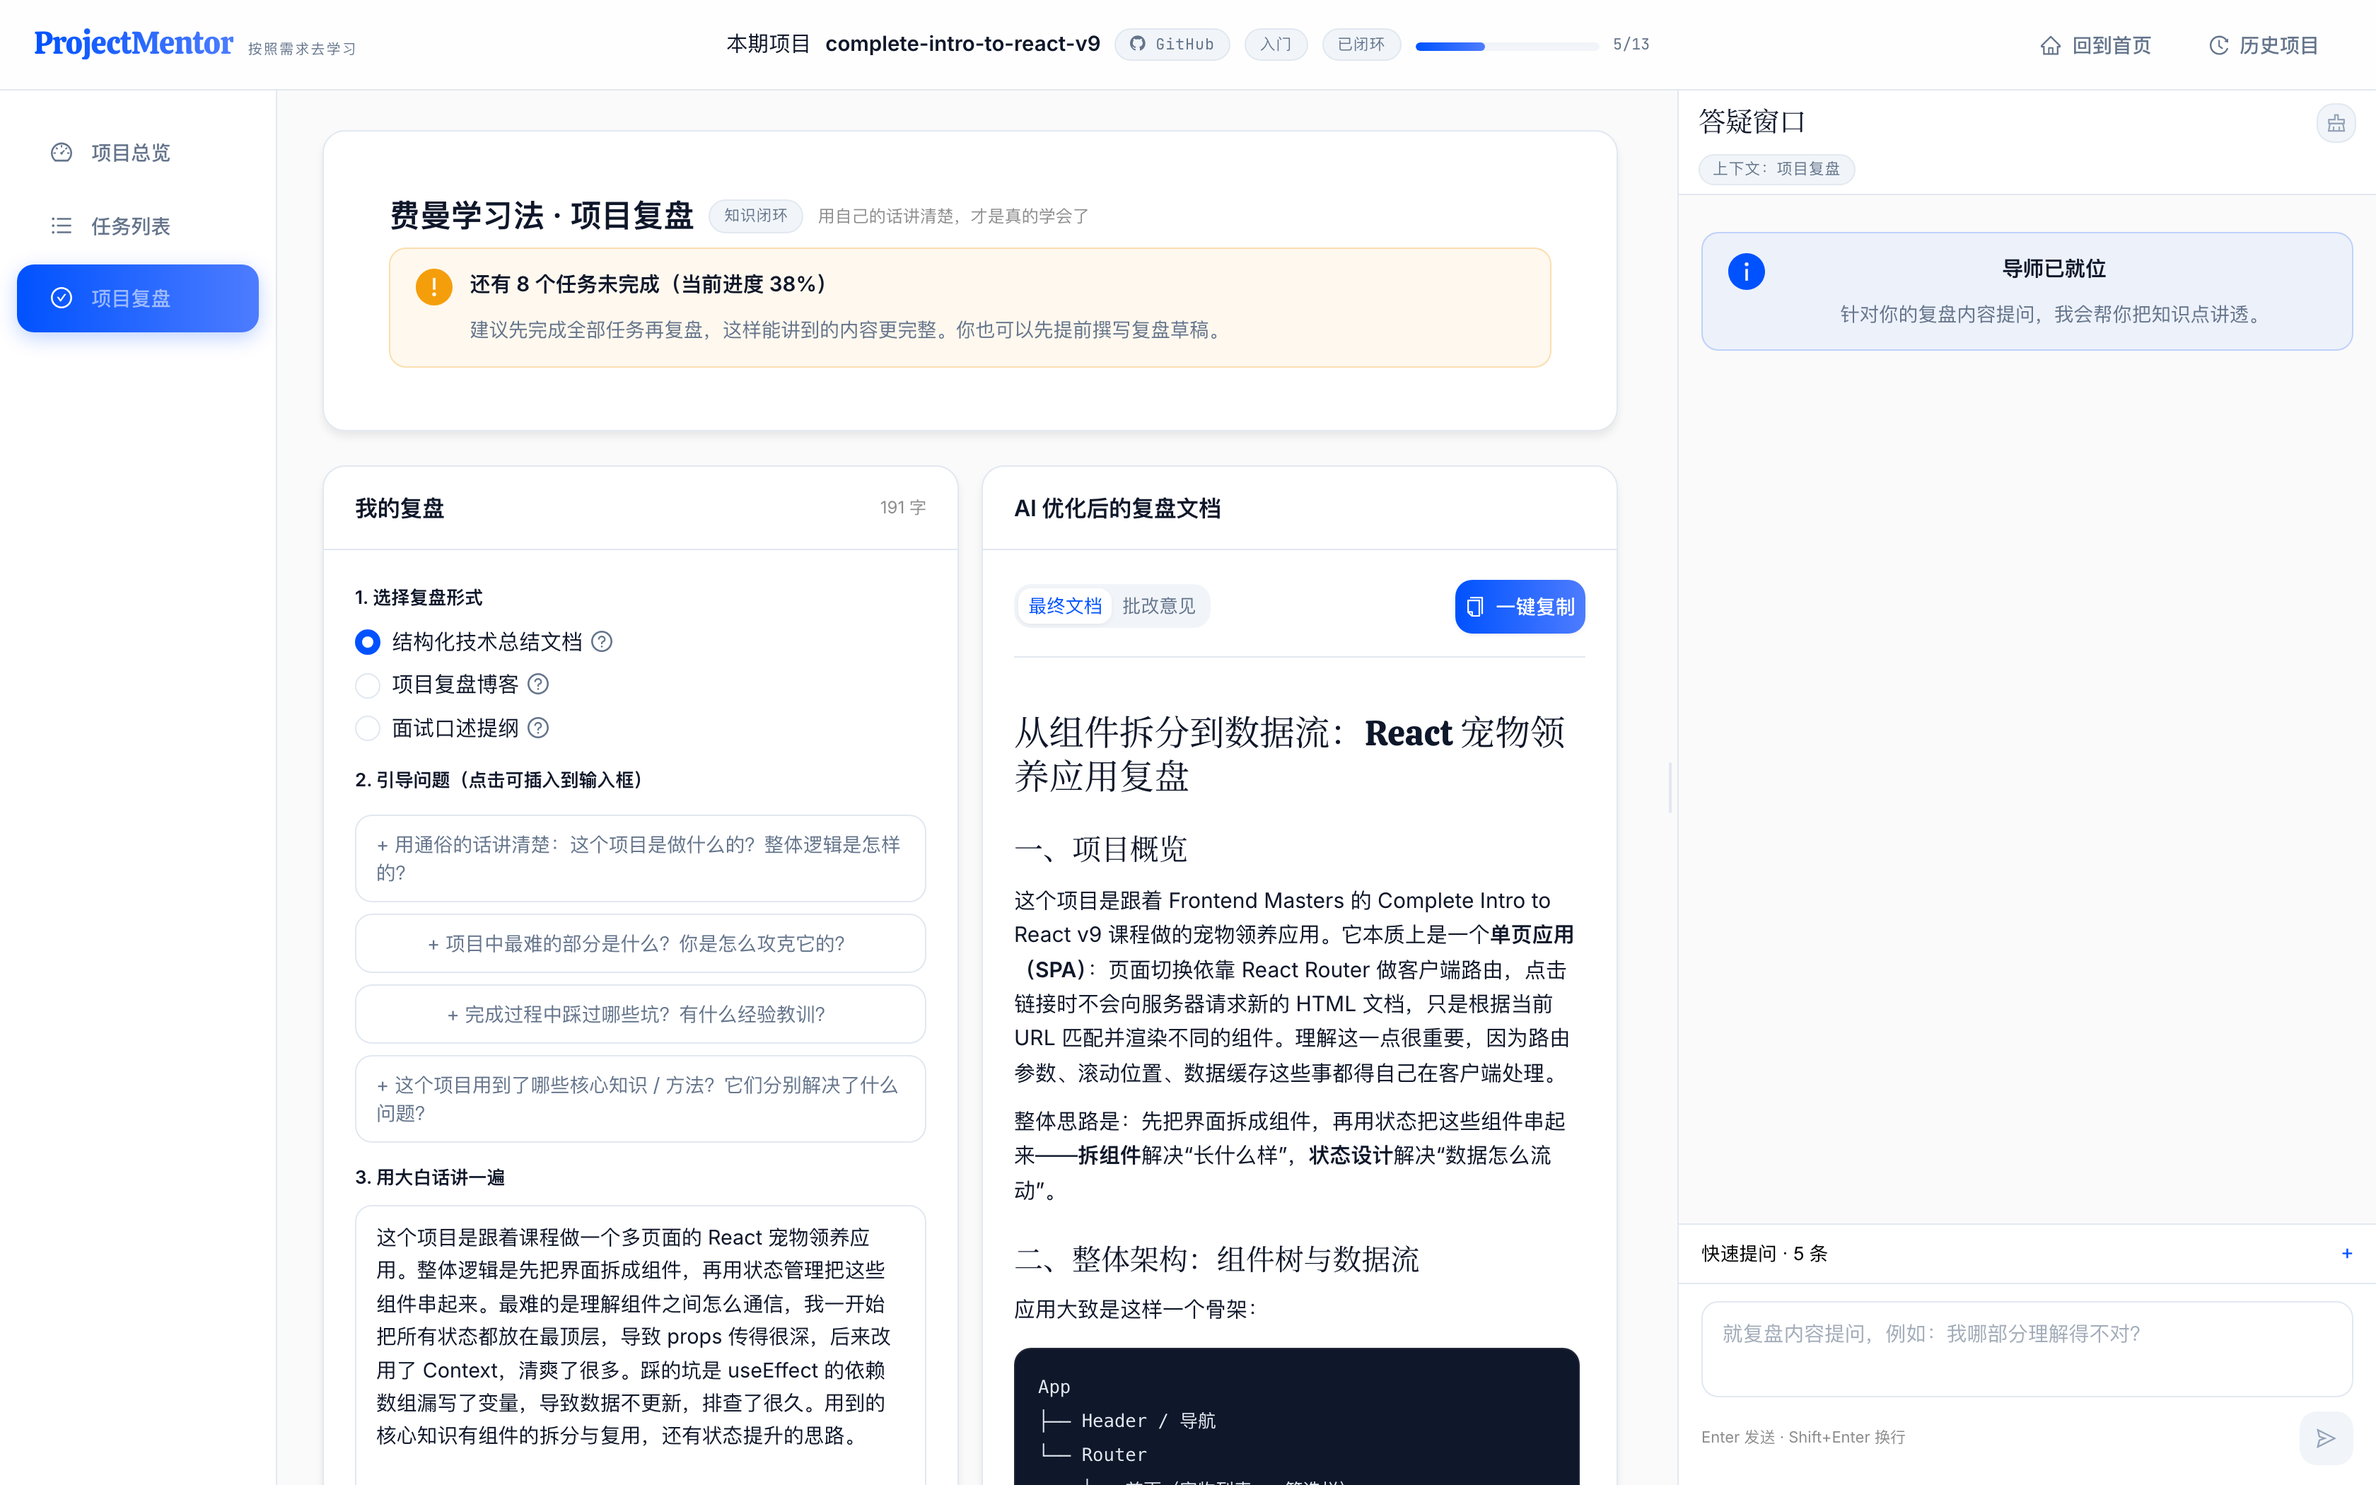
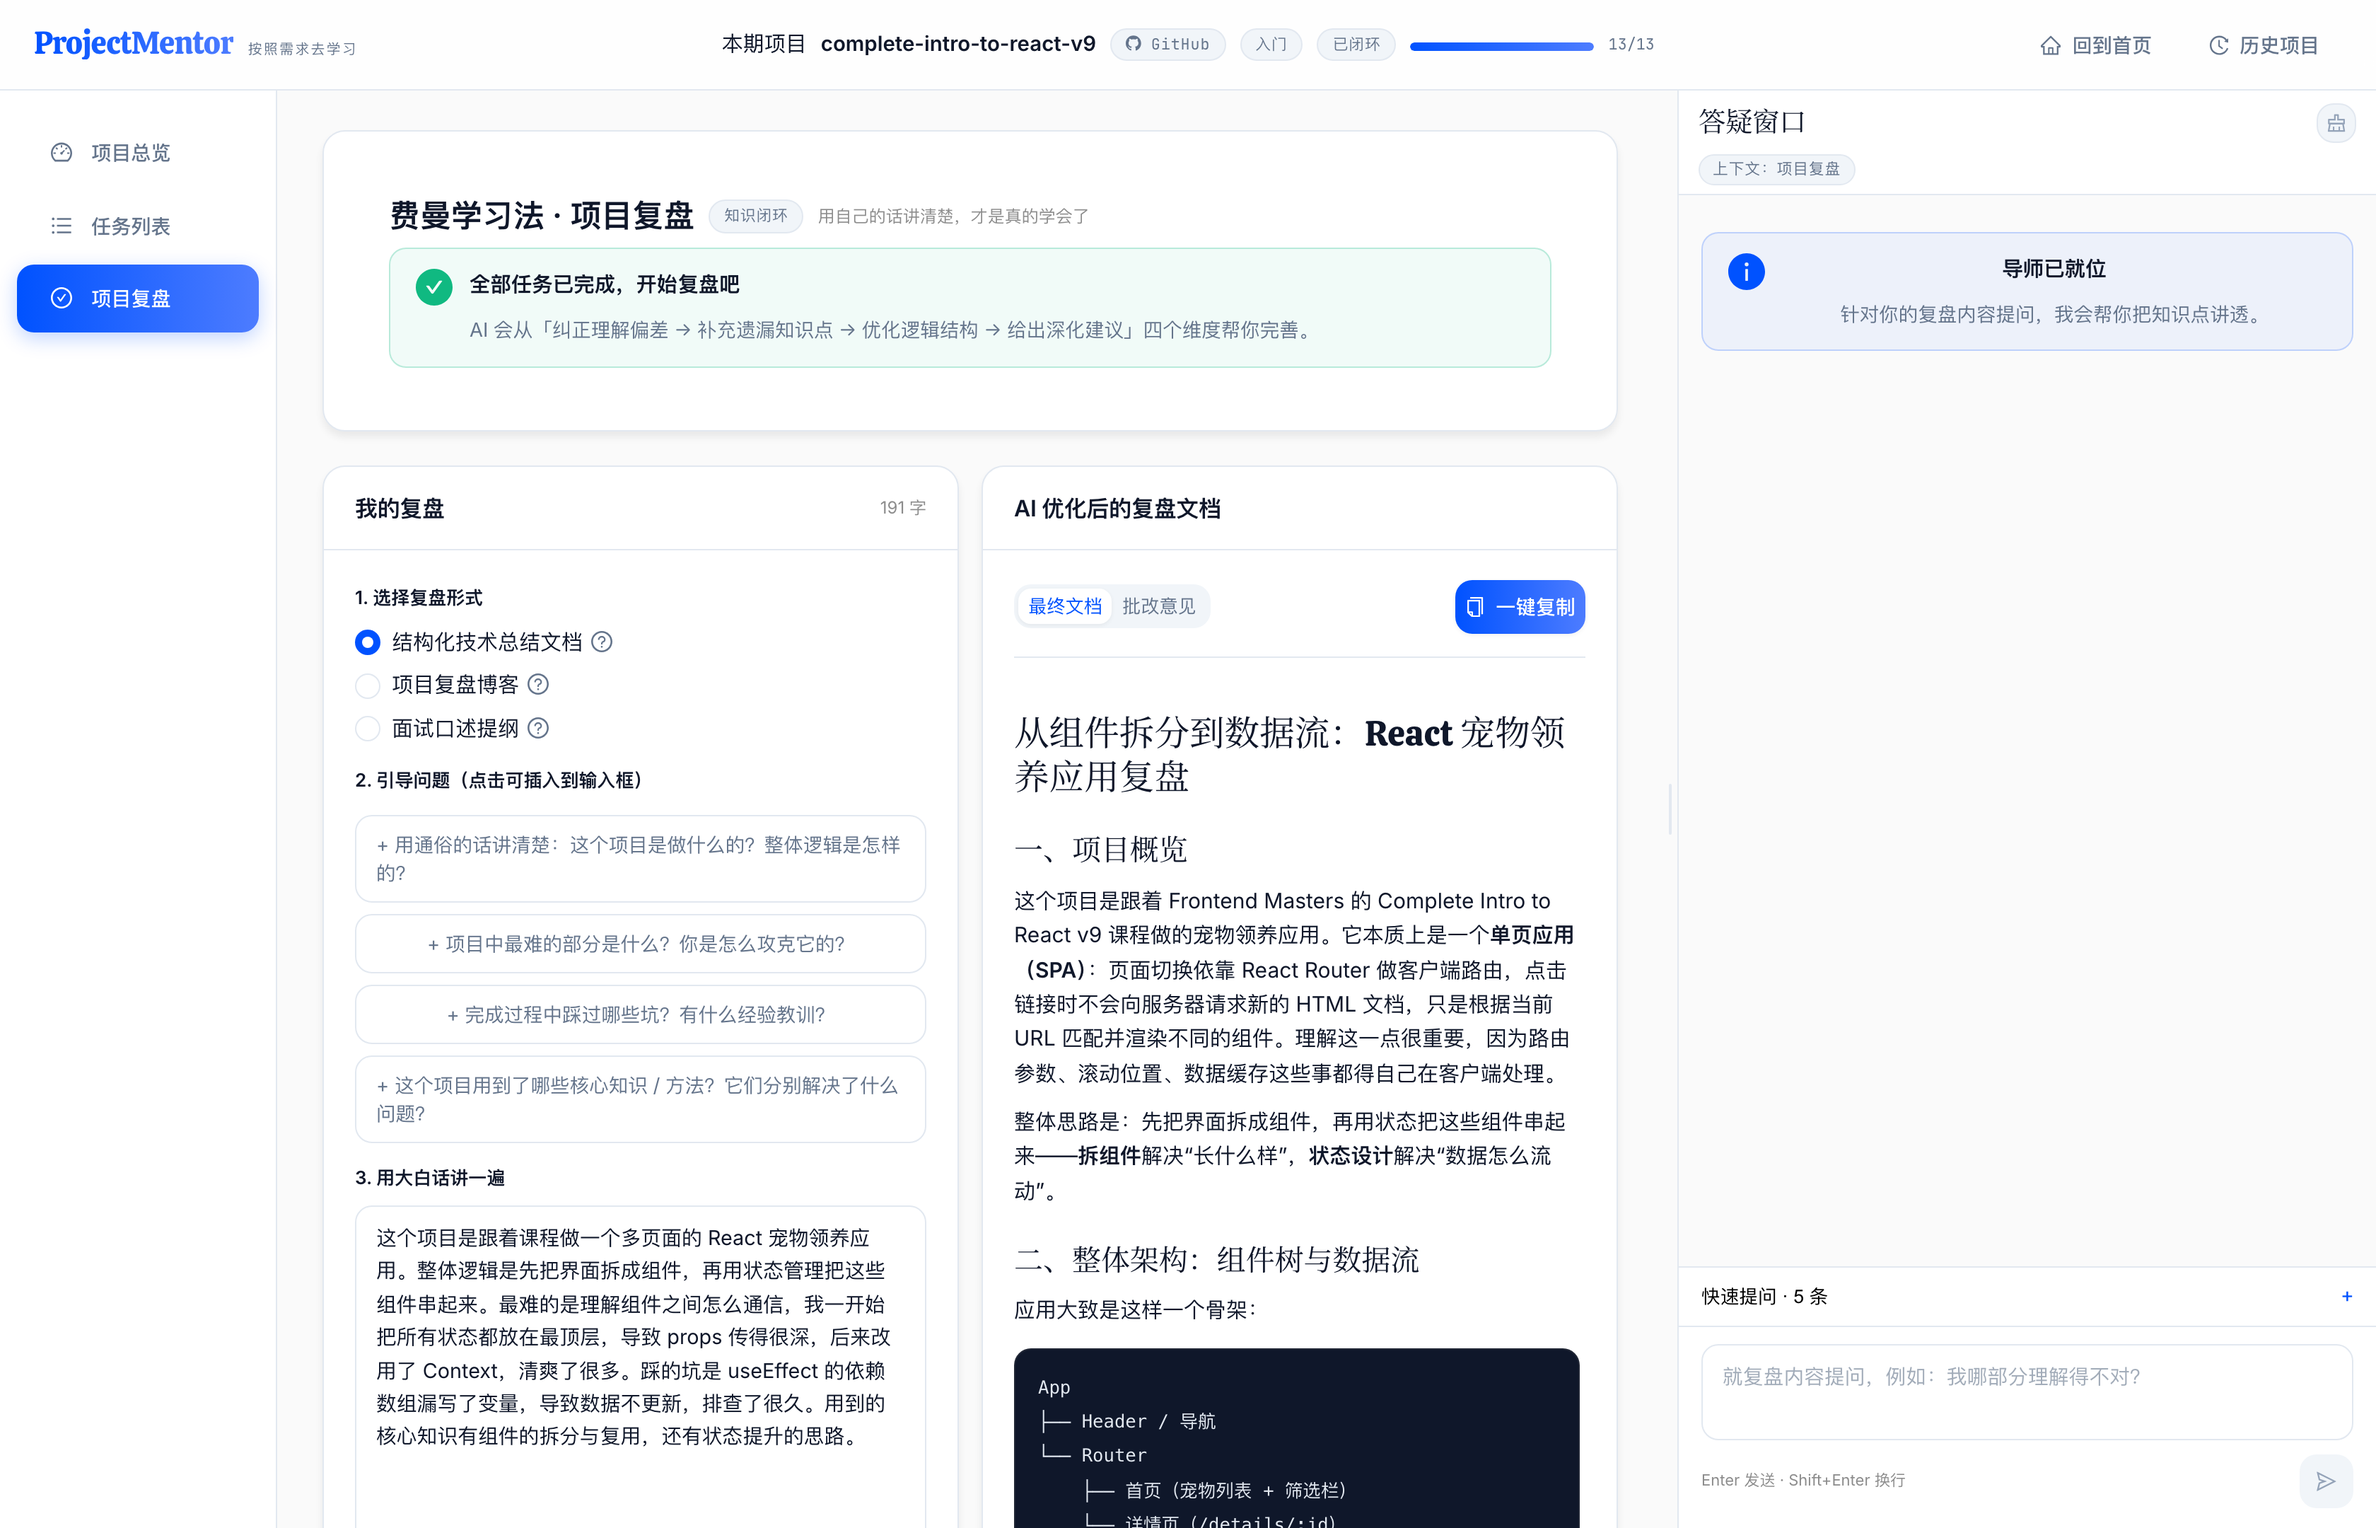
docs: README 增加产品演示视频（B 站）
## 为什么用「可点击封面图」而不是嵌入播放器

GitHub 的 Markdown 渲染器会**剥离 <iframe>**，所以 B 站官方的嵌入代码
在 README 里无效；<video> 直链也不可行（B 站不提供可内联播放的直链，
仓库单文件又限制 100MB）。可点击的封面图是 GitHub 上唯一能兼顾
「一眼看到画面」和「一点就能播」的做法。

## 封面为什么不用 B 站自动生成的

B 站截取的封面是整屏录制画面，包含桌面、Dock 和浏览器标签栏，
其中还能看到「我的书签」「Java 修饰符」「复查提交历史」等私人标签页 ——
放在求职作品集里不合适。

改为用项目自己的「费曼复盘」截图重新合成：裁成 16:9、加半透明遮罩、
渐变播放按钮与时长角标，生成 docs/screenshots/video-cover.png。
既干净，也不依赖 B 站 CDN（避免防盗链/迁移导致图片裂掉）。

## 顺带修一处内容不一致

docs/screenshots/06-费曼复盘.png 是「13 个任务完成 5 个」时拍的，
页面顶部显示「还有 8 个任务未完成（当前进度 38%）」——
与 README 里「全部任务完成 → 复盘」的叙述矛盾。已用 13/13 状态的截图替换。

## 链接处理

去掉 B 站分享链接里的 ?vd_source= 追踪参数，只保留 BV 号，
更短、更好认、便于抄写进简历。

diff --git a/README.md b/README.md
@@ -10,6 +10,16 @@
 
 ---
 
+## 产品演示
+
+[![点击播放 ProjectMentor 产品演示](docs/screenshots/video-cover.png)](https://www.bilibili.com/video/BV1sqs86dENY)
+
+**▶ [观看完整演示（5 分 32 秒）](https://www.bilibili.com/video/BV1sqs86dENY)**
+
+一次完整流程：输入学习方向 → 双路径匹配 → 任务拆解与 DDL → 双窗口答疑 → 费曼复盘生成可展示文档。
+
+---
+
 ## 解决什么问题
 
 在校学生和转行者学技术时，普遍卡在同一个地方：**看完了教程，但做不出东西**。
